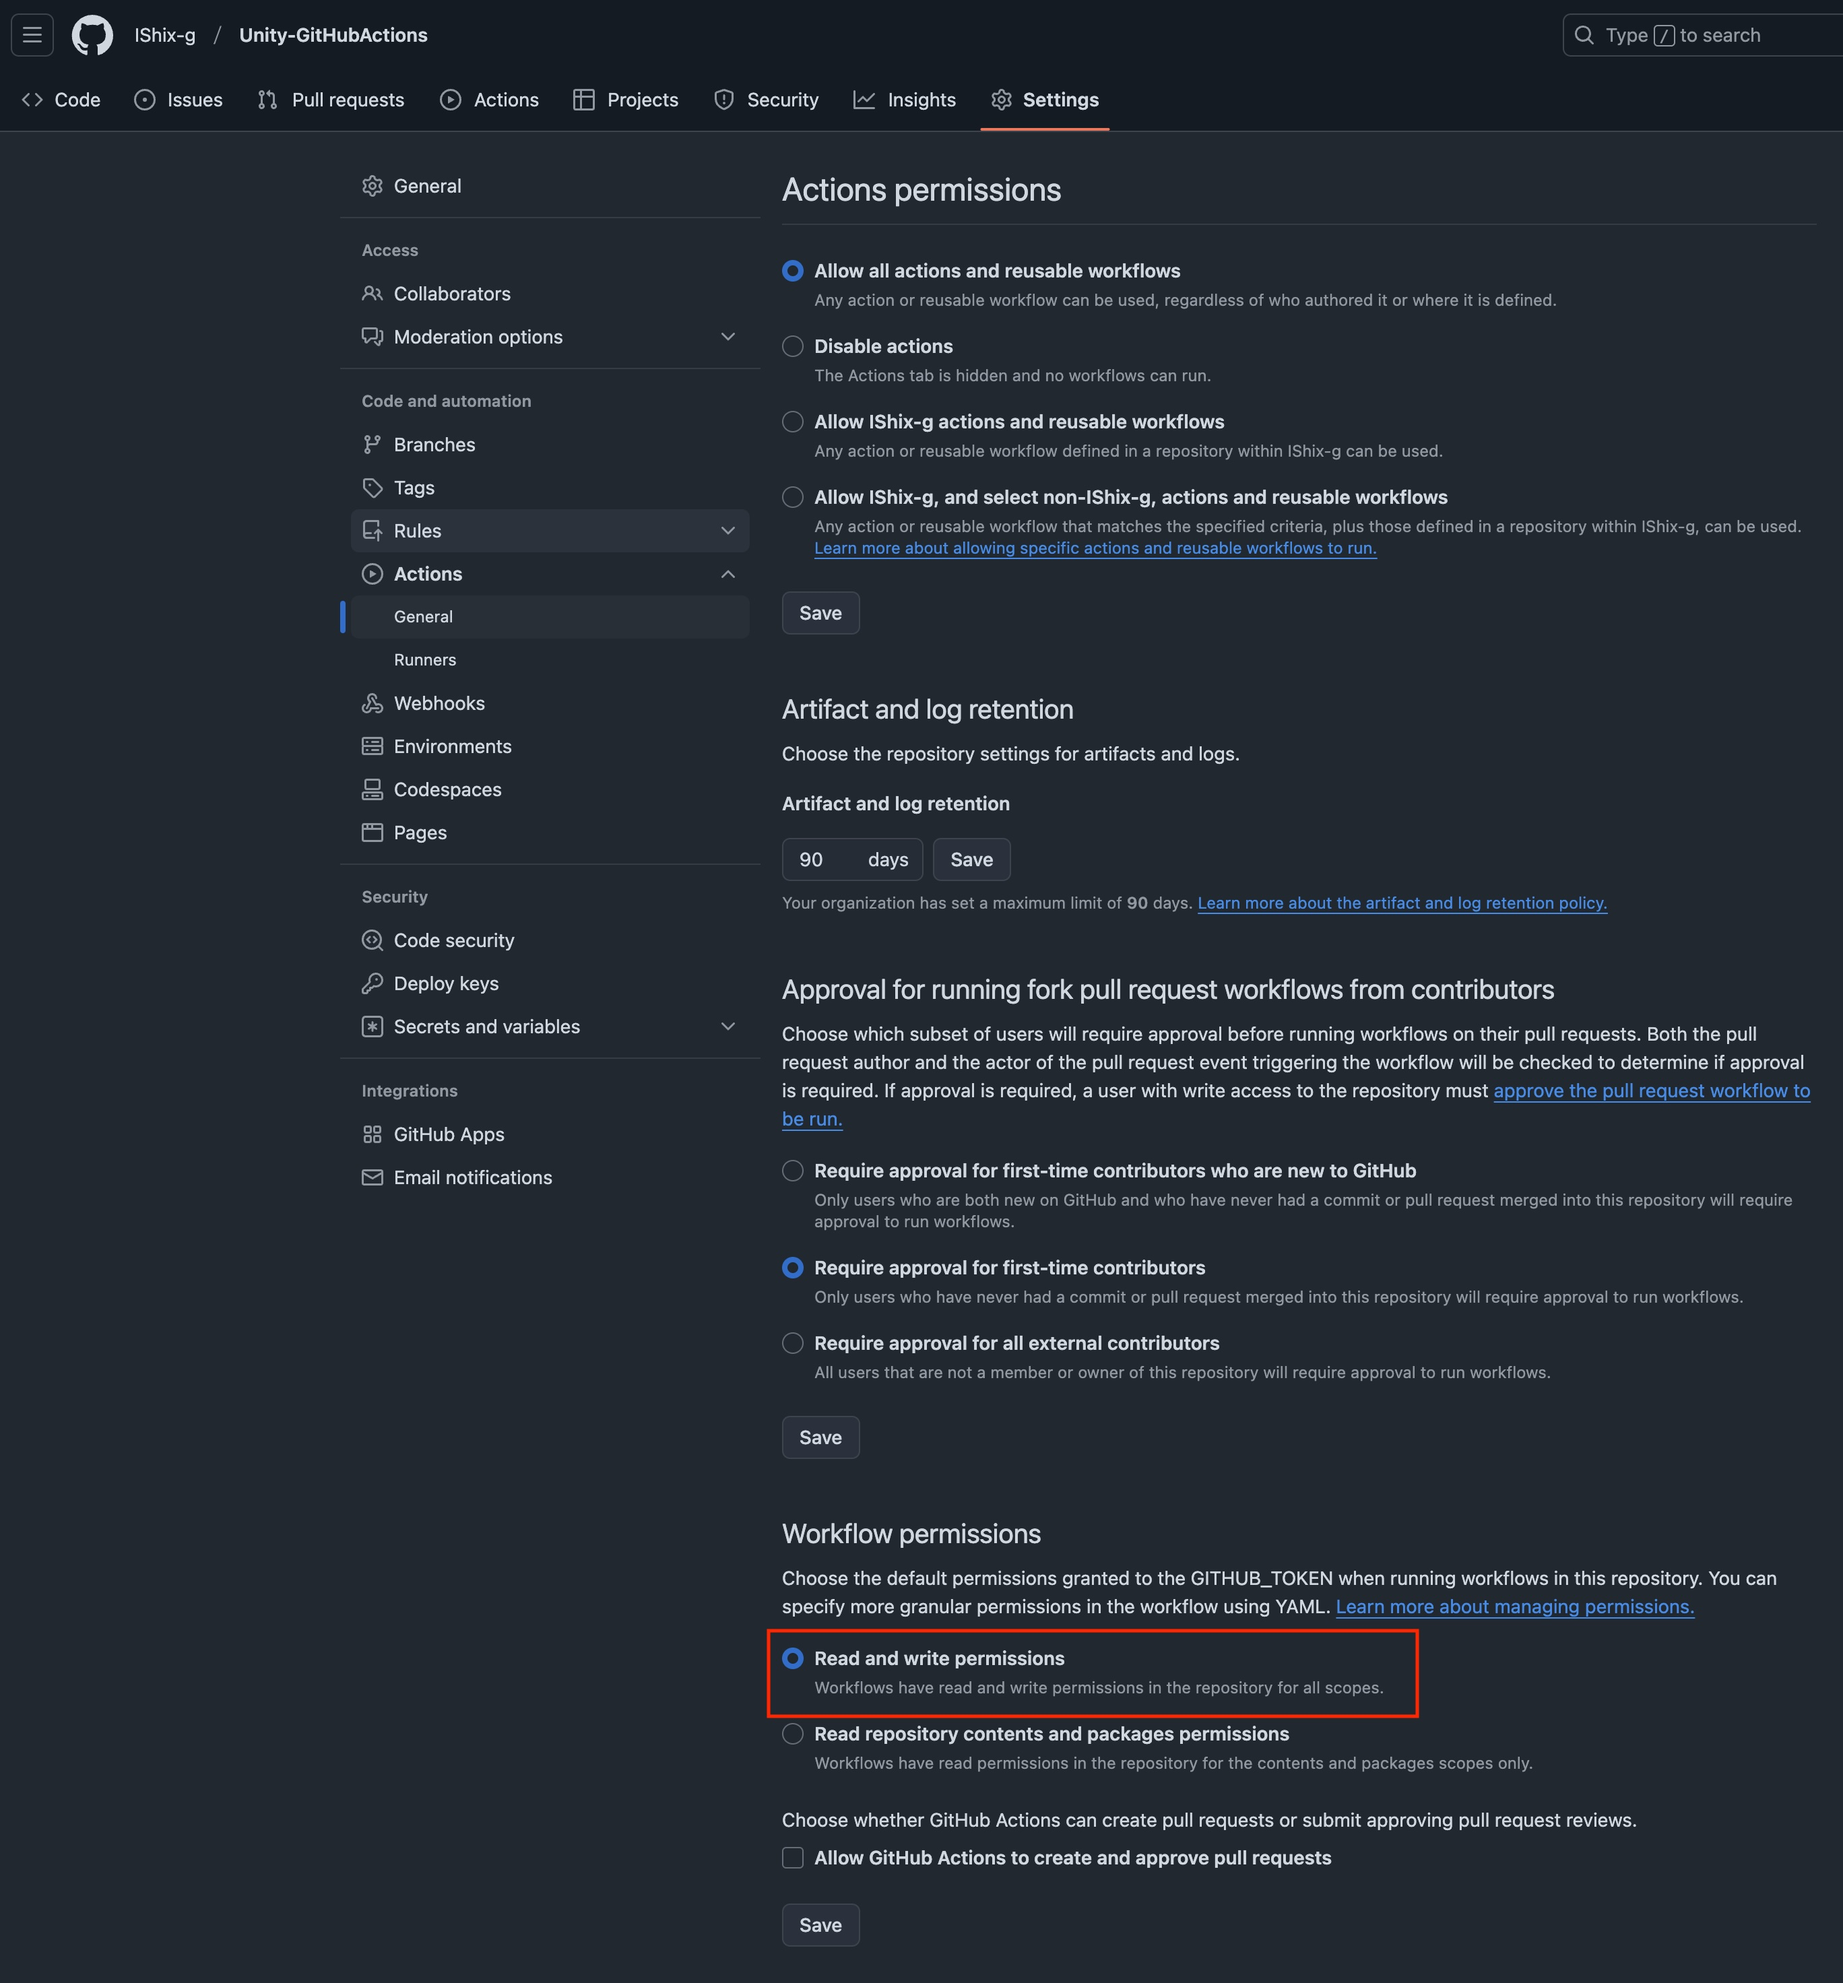
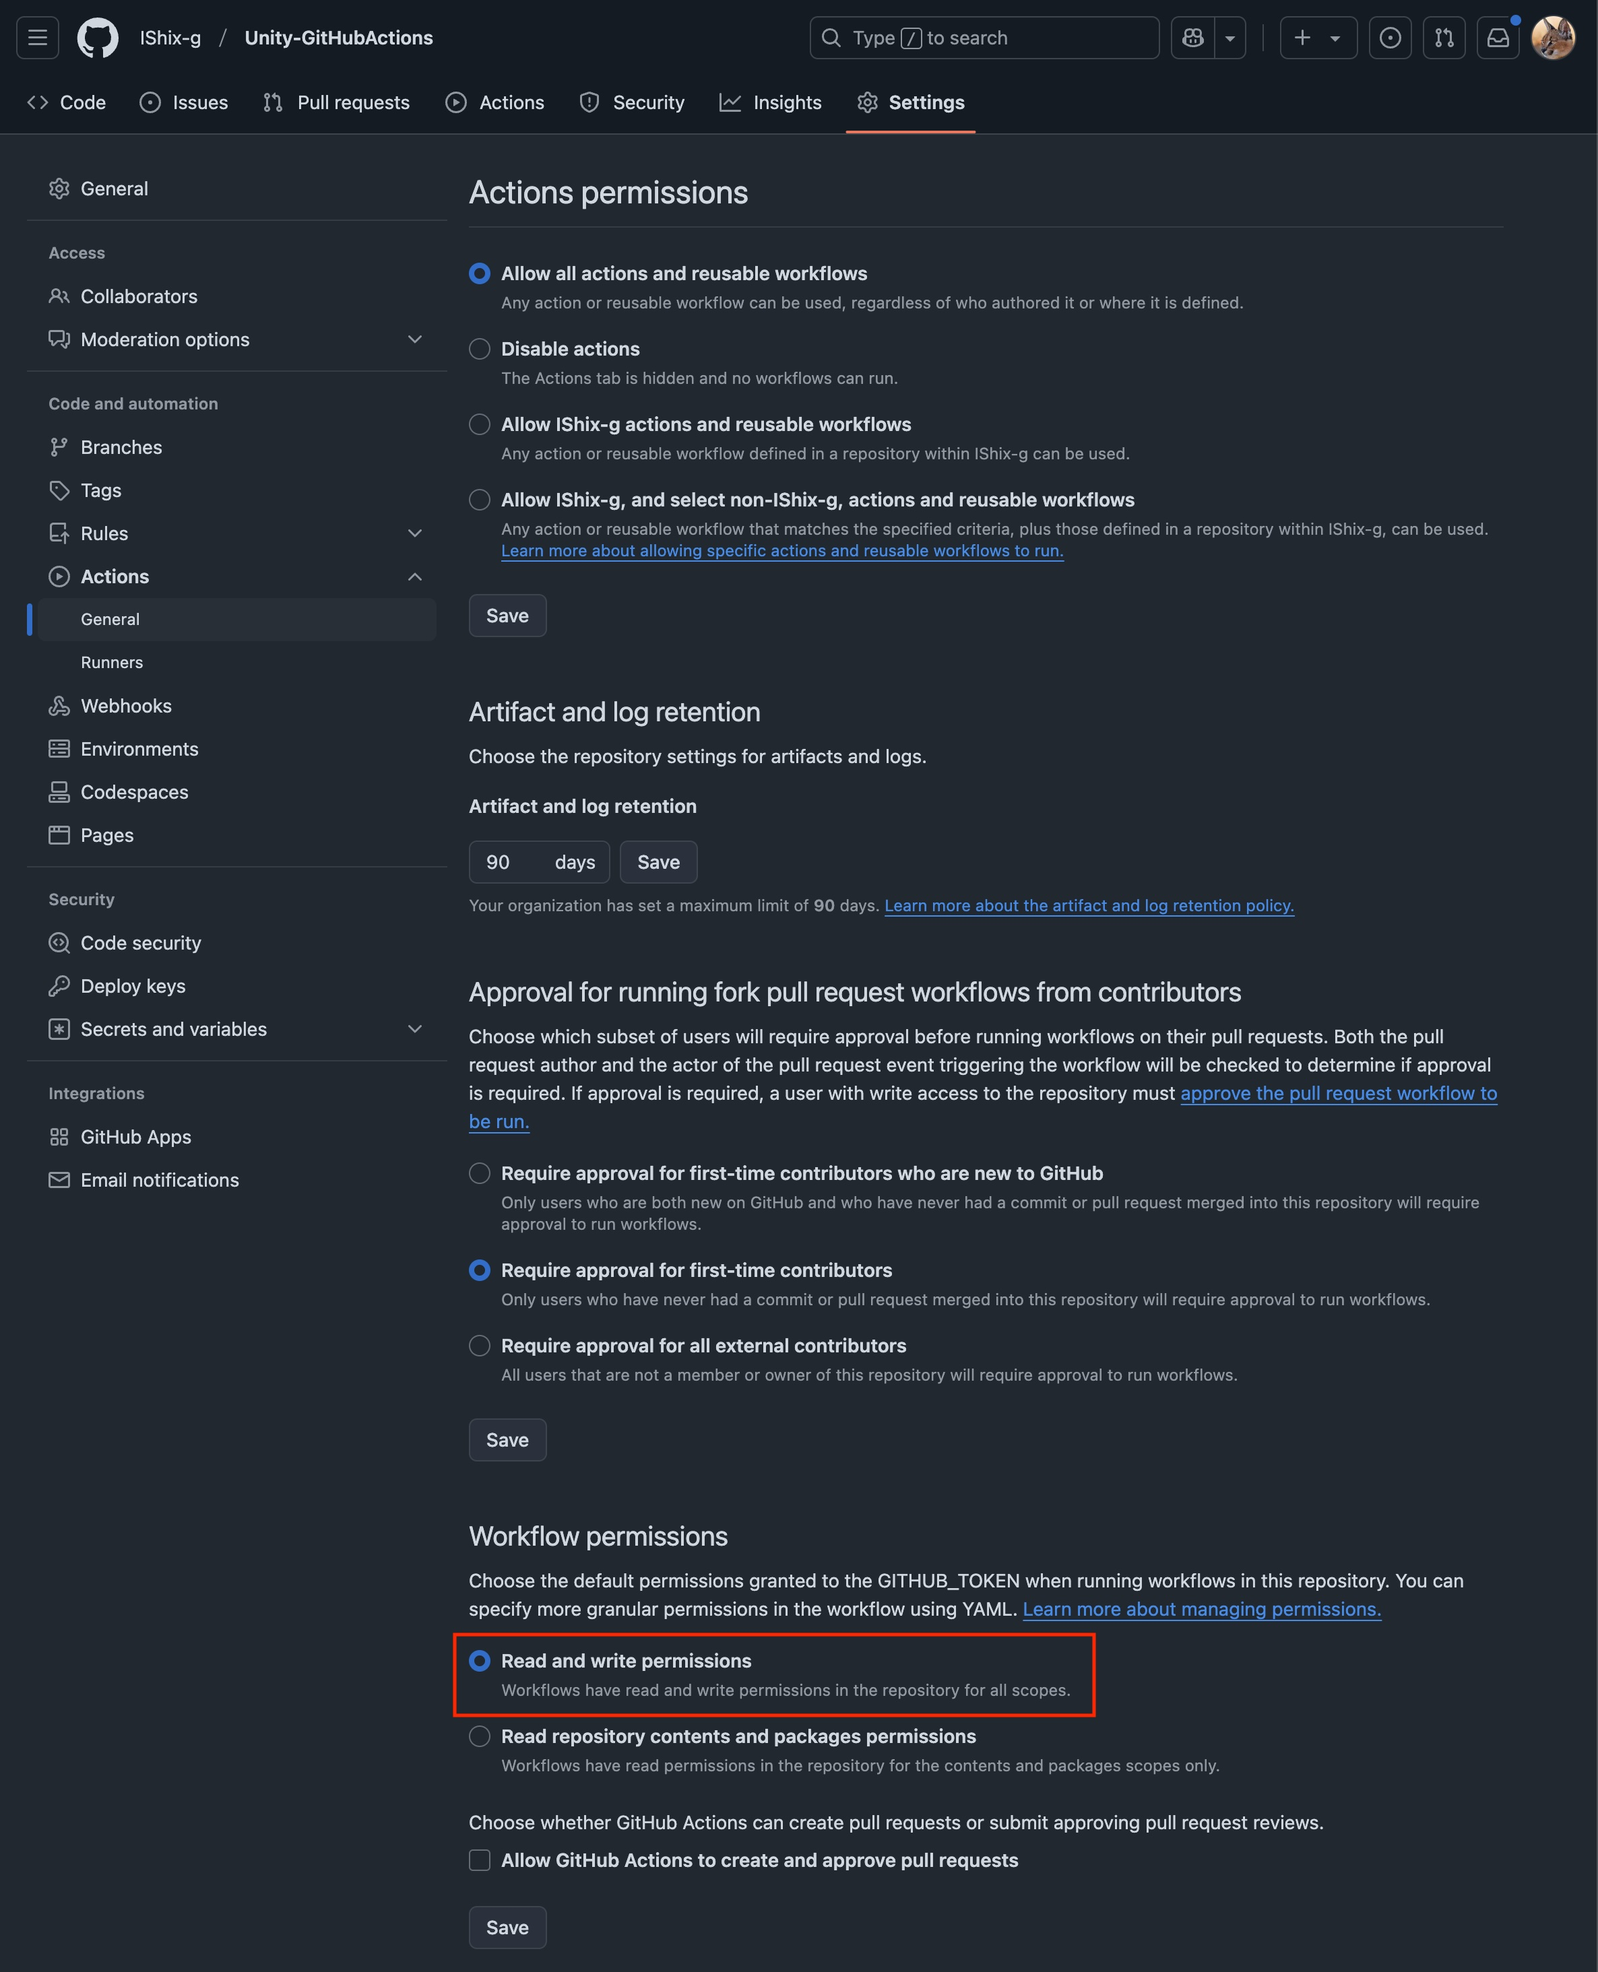
feat: improve documentation formatting with resized images

diff --git a/README.md b/README.md
@@ -92,8 +92,7 @@ GitHub Actions for Unity.
 
 This repository provides automation for Unity package releases using GitHub Actions.
 
-**This action automates the following tasks:**  
-**You can choose to execute only specific tasks you need.**
+**This action automates the following tasks:**
 
 - Update the [package manifest](https://docs.unity3d.com/2022.3/Documentation/Manual/upm-manifestPkg.html) version
 - Generate releases
@@ -101,6 +100,8 @@ This repository provides automation for Unity package releases using GitHub Acti
 - Run tests using the [Unity Test Framework (formerly Test Runner)](https://docs.unity3d.com/2022.3/Documentation/Manual/testing-editortestsrunner.html)
 - Build [packages](https://docs.unity3d.com/2022.3/Documentation/Manual/CustomPackages.html)
 - Upload the [packages](https://docs.unity3d.com/2022.3/Documentation/Manual/CustomPackages.html) to the release page
+
+You can choose to execute only specific tasks you need.
 
 ### Release Notes
 
@@ -117,13 +118,13 @@ When commit messages start with specific keywords like `feat` or `fix`, they wil
 | refactor:  | Refactor without changing functionality  |
 | perf:      | Changes to improve performance           |
 
-![](Docs/release-note.jpg)
+<img src="Docs/release-note.jpg" width="500"/>
 
 ## Required Settings
 
 Set **Read and write permissions** for `Settings > Actions > General > Workflow permissions`.
 
-![](Docs/settings_action.jpg)
+<img src="Docs/settings_action.jpg" width="500"/>
 
 ## Settings for Different Scenarios
 
@@ -178,7 +179,7 @@ For manual releases:
 
 [Sample Workflow Execution](https://github.com/IShix-g/Unity-GitHubActions/actions/runs/13129242127)
 
-![](Docs/release_manually.jpg)
+<img src="Docs/release_manually.jpg" width="500"/>
 
 | Option                  | Description                                            | Default | Example         |
 |-------------------------|--------------------------------------------------------|---------|-----------------|
@@ -195,7 +196,7 @@ For manual releases:
 2. Prepare the release in this branch.
 3. Trigger a manual release using `Run workflow`.
 
-![](Docs/release_manually2.jpg)
+<img src="Docs/release_manually2.jpg" width="500"/>
 
 ### Setup Guide
 
@@ -220,11 +221,11 @@ Create a pull request from any branch to the default branch. **Ensure the releas
 
 [Sample Execution](https://github.com/IShix-g/Unity-GitHubActions/actions/runs/13323524820)
 
-![](Docs/pull_request.jpg)
+<img src="Docs/pull_request.jpg" width="500"/>
 
 Releases are created automatically post-merge.
 
-![](Docs/pull_request2.jpg)
+<img src="Docs/pull_request2.jpg" width="500"/>
 
 ### Release Creation Conditions
 
@@ -287,11 +288,11 @@ test-modes: 'playmode,editmode'
 
 You can view the list of executed tests.  
 [Sample Execution Result](https://github.com/IShix-g/Unity-GitHubActions/actions/runs/13325816869)  
-![](Docs/artifact-editmode.jpg)
+<img src="Docs/artifact-editmode.jpg" width="500"/>
 
 [Unity - Code Coverage](https://docs.unity3d.com/Packages/com.unity.testtools.codecoverage@1.2/manual/index.html) will be included in the artifacts.
 
-![](Docs/artifact-download.jpg)
+<img src="Docs/artifact-download.jpg" width="500"/>
 
 ## Adding Package Generation
 
@@ -331,7 +332,7 @@ A script for generating packages is required. Please use the provided [PackageEx
 
 The built package will appear in the release.  
 [Sample Execution Result](https://github.com/IShix-g/Unity-GitHubActions/actions/runs/13320955403)  
-![](Docs/release_page.jpg)
+<img src="Docs/release_page.jpg" width="500"/>
 
 ## PackageExporter
 
